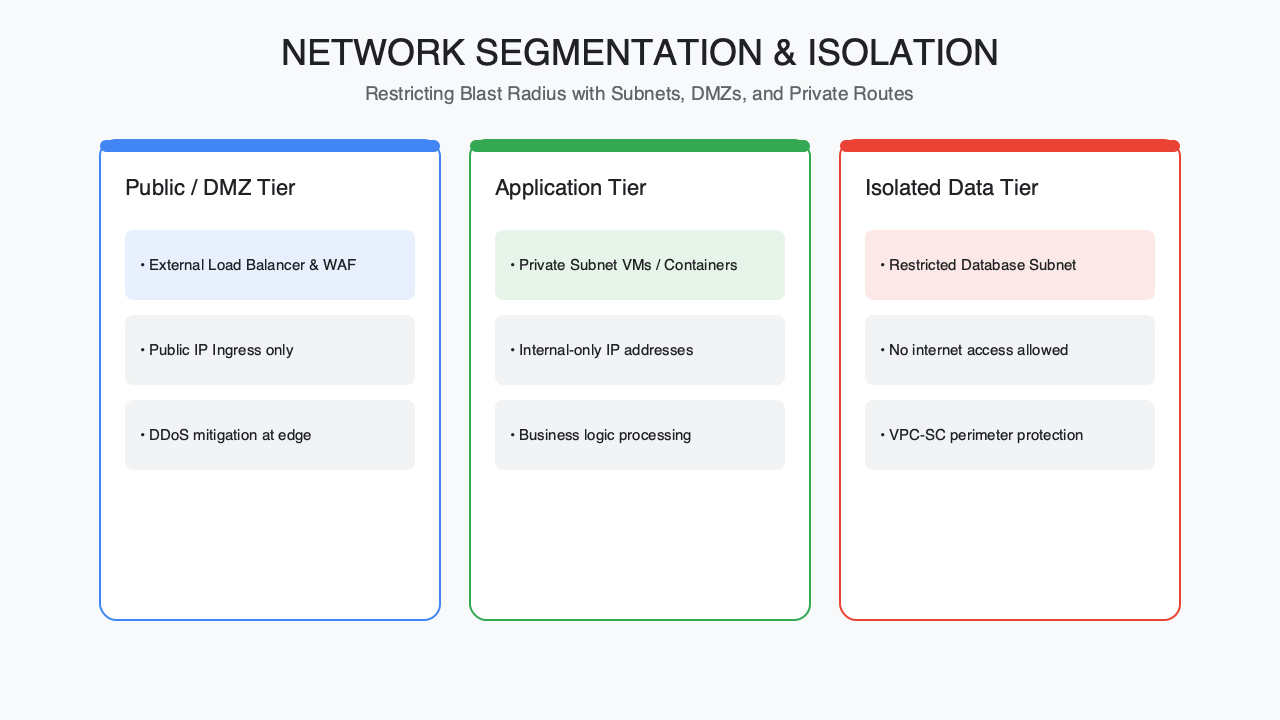
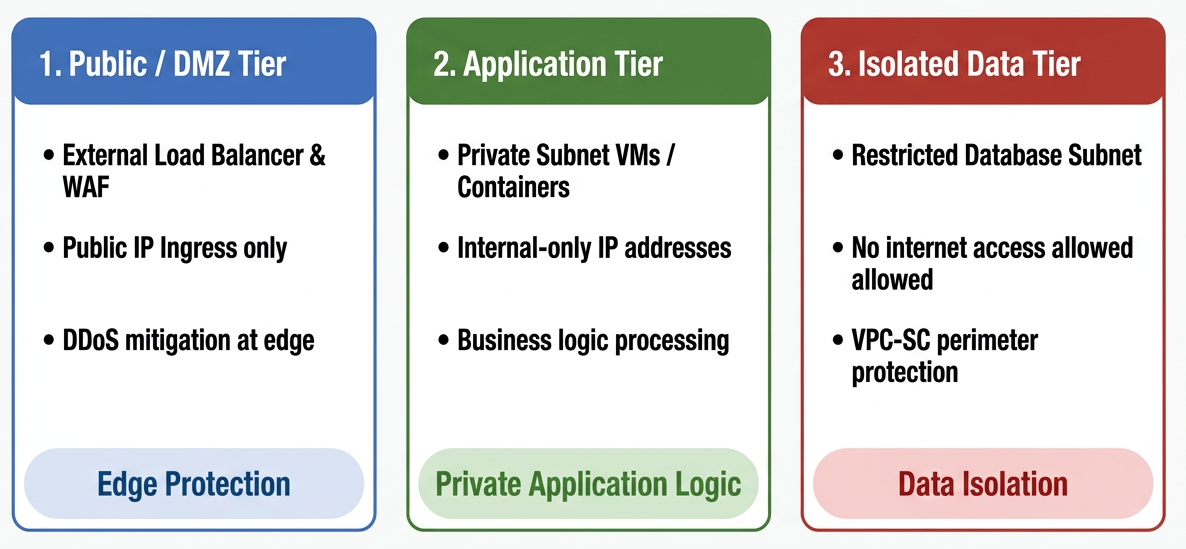
Updates to Course 16

diff --git a/courses/16-web-security-foundations/course.md b/courses/16-web-security-foundations/course.md
@@ -164,6 +164,8 @@ print(hashlib.sha256(b"hello").hexdigest())
 - Start at the OS, move to the network, then the web server itself
 - Small, boring changes (patching, disabling defaults) stop more attacks than clever ones
 
+![Layers of defense](images/locking-it-down.png)
+
 ---
 
 # Operating System Hardening
